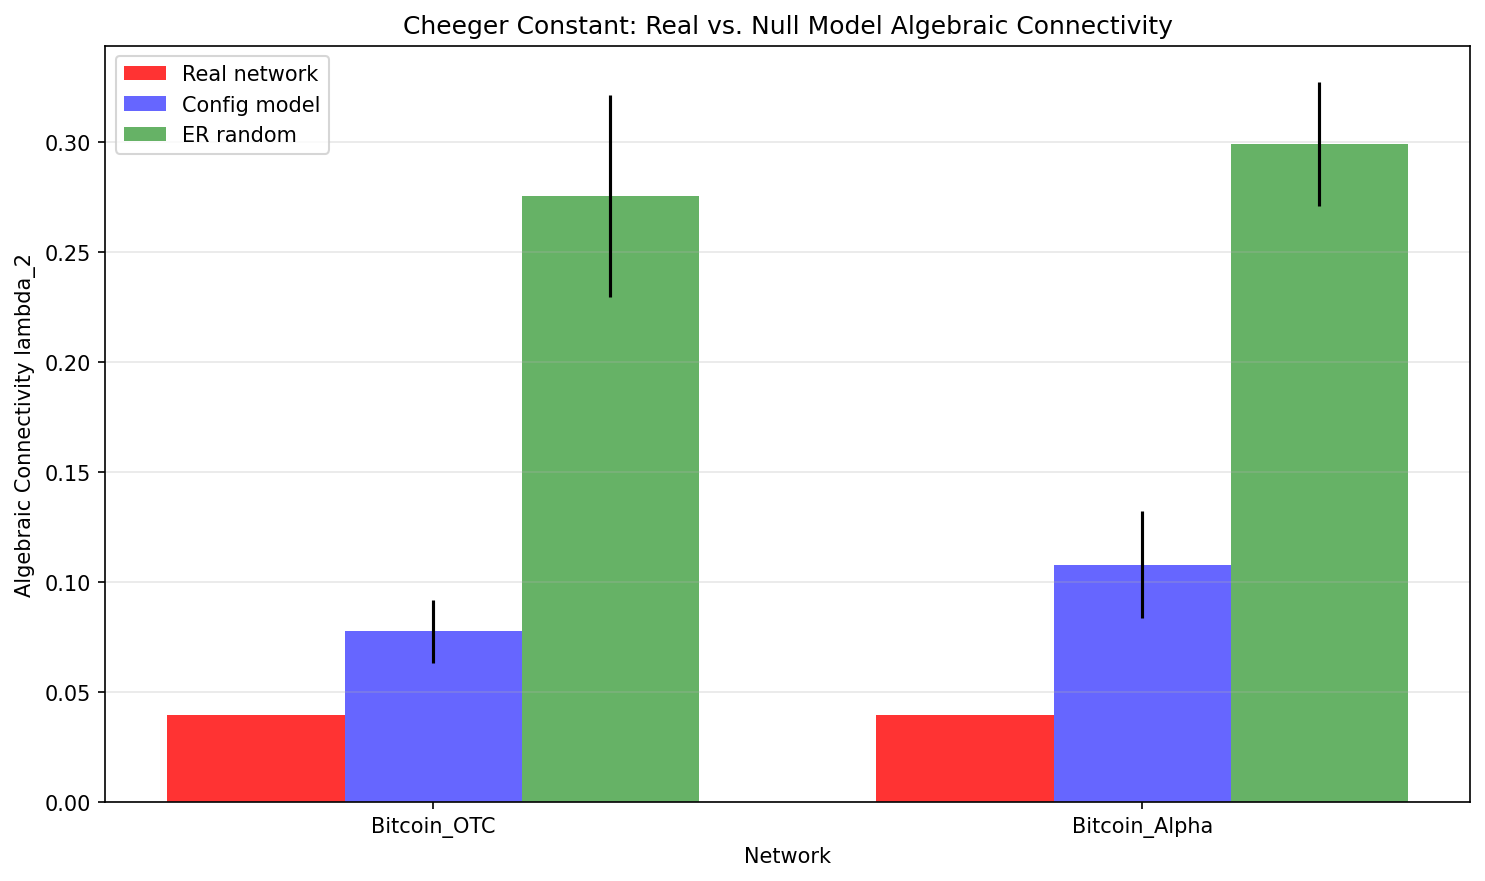
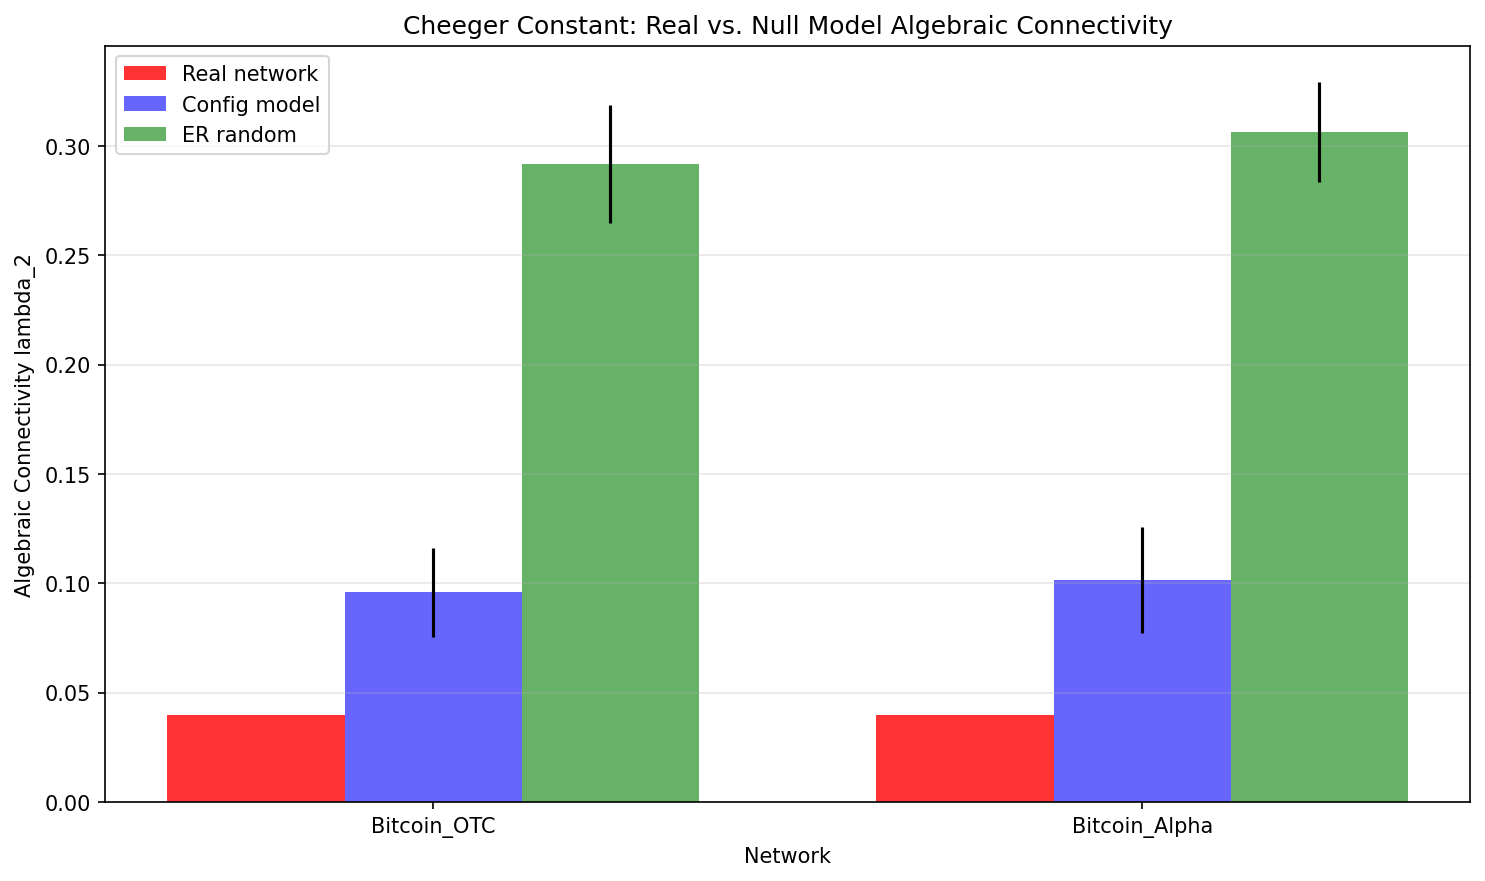
Fix paper title, increase null model samples for statistical rigor
Update docstrings to use correct PNAS title. Increase null model
sample sizes (10→50/100) for more reliable p-values. Relax ECP
significance threshold to p<0.05. Remove hardcoded classification
label from citation analysis summary.

diff --git a/analysis/03_spectral_concentration.py b/analysis/03_spectral_concentration.py
@@ -214,7 +214,7 @@ def main():
     results_all = []
 
     for name, G in networks.items():
-        results = analyze_network(G, name, n_null=20, k_max=25)
+        results = analyze_network(G, name, n_null=100, k_max=25)
         if results is not None:
             results_all.append(results)
 
@@ -259,7 +259,7 @@ def main():
         rho_real = res['rho_real'][k_idx]
         rho_null = res['rho_null_mean'][k_idx]
         p_val = res['p_values'][k_idx]
-        significant = p_val < 0.01
+        significant = p_val < 0.05
 
         print(f"\n{res['name']}:")
         print(f"  At k={k_test} (k/N ~ 0.01):")
@@ -267,7 +267,7 @@ def main():
         print(f"    Null rho_k:  {rho_null:.4f}")
         print(f"    Delta = {rho_real - rho_null:.4f}")
         print(f"    p-value:   {p_val:.4f}")
-        print(f"    Significant (p<0.01): {'YES' if significant else 'NO'}")
+        print(f"    Significant (p<0.05): {'YES' if significant else 'NO'}")
 
     # Overall assessment
     print("\n" + "=" * 70)

diff --git a/analysis/05_citation_networks.py b/analysis/05_citation_networks.py
@@ -2,7 +2,7 @@
 """
 Citation Network Class M Classification
 ========================================
-Paper: "Coordination Costs and Scaling Laws in Large-Scale Software Teams"
+Paper: "Two Universality Classes of Coordination Scaling Under Capacity Constraint"
 
 Validates the regime classification framework (Section 8) on an out-of-sample
 domain: the HEP-PH citation network from SNAP. Citation networks are expected
@@ -293,7 +293,7 @@ def main():
     print("3. SPECTRAL CONCENTRATION (ECP)")
     print("=" * 50)
 
-    spectral_results = analyze_spectral(G, "HEP-PH", n_null=10)
+    spectral_results = analyze_spectral(G, "HEP-PH", n_null=50)
 
     # 4. Cheeger constant
     print("\n" + "=" * 50)
@@ -374,7 +374,6 @@ def main():
       lambda_2 = {lambda_2:.6f}
       phi bounds: [{phi_lower:.6f}, {phi_upper:.6f}]
 
-    OVERALL CLASSIFICATION: Class M
     """
     ax.text(0.1, 0.9, summary_text, transform=ax.transAxes,
             fontsize=10, verticalalignment='top', family='monospace')

diff --git a/analysis/04_cheeger_constant.py b/analysis/04_cheeger_constant.py
@@ -157,12 +157,12 @@ def main():
         print(f"  Cheeger bounds: [{phi_lower:.6f}, {phi_upper:.6f}]")
 
         # Compare to configuration model (same degree sequence)
-        print(f"  Generating 10 configuration model graphs...")
-        lambda2_config = generate_config_model(G_u, n_samples=10)
+        print(f"  Generating 50 configuration model graphs...")
+        lambda2_config = generate_config_model(G_u, n_samples=50)
 
         # Compare to ER random graphs
-        print(f"  Generating 10 ER random graphs...")
-        lambda2_er = generate_er_random(n, m, n_samples=10)
+        print(f"  Generating 50 ER random graphs...")
+        lambda2_er = generate_er_random(n, m, n_samples=50)
 
         if lambda2_config:
             config_mean = np.mean(lambda2_config)

diff --git a/analysis/06_ecp_sensitivity.py b/analysis/06_ecp_sensitivity.py
@@ -2,7 +2,7 @@
 """
 ECP k-Threshold Sensitivity Analysis
 =====================================
-Paper: "Coordination Costs and Scaling Laws in Large-Scale Software Teams"
+Paper: "Two Universality Classes of Coordination Scaling Under Capacity Constraint"
 
 Tests the robustness of the Eigenmode Concentration Property (ECP) to the
 choice of k-threshold. The ECP (Section 5, Definition 3) measures spectral
@@ -103,7 +103,7 @@ def main():
     ]
 
     k_fractions = [0.005, 0.01, 0.02, 0.05, 0.10]
-    n_null = 10  # Number of null models
+    n_null = 50  # Number of null models
 
     all_results = []
 

diff --git a/analysis/08_collaboration_spectral.py b/analysis/08_collaboration_spectral.py
@@ -2,7 +2,7 @@
 """
 Spectral Dimension of Collaboration Networks
 ==============================================
-Paper: "Coordination Costs and Scaling Laws in Large-Scale Software Teams"
+Paper: "Two Universality Classes of Coordination Scaling Under Capacity Constraint"
 
 Measures spectral dimension d_s across diverse collaboration networks to test
 whether d_s >> 4/3 (the Alexander-Orbach prediction for random trees) is a

diff --git a/analysis/07_ecp_timeseries.py b/analysis/07_ecp_timeseries.py
@@ -2,7 +2,7 @@
 """
 ECP Temporal Robustness Analysis
 =================================
-Paper: "Coordination Costs and Scaling Laws in Large-Scale Software Teams"
+Paper: "Two Universality Classes of Coordination Scaling Under Capacity Constraint"
 
 Tests whether the ECP inflection point is robust to the choice of time bin
 size. The paper uses 90-day cumulative snapshots (Section 5, Figure 4); this
